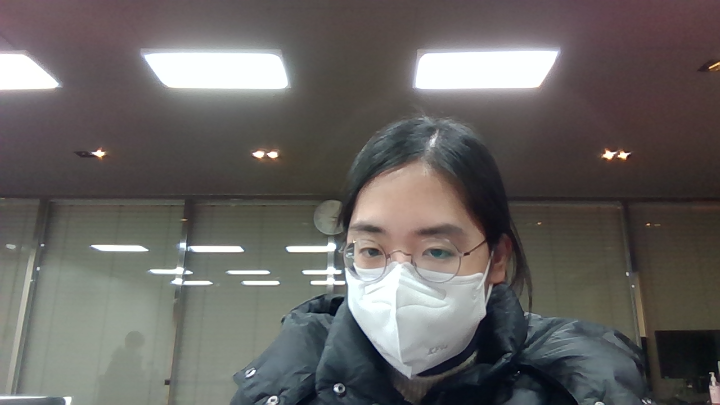
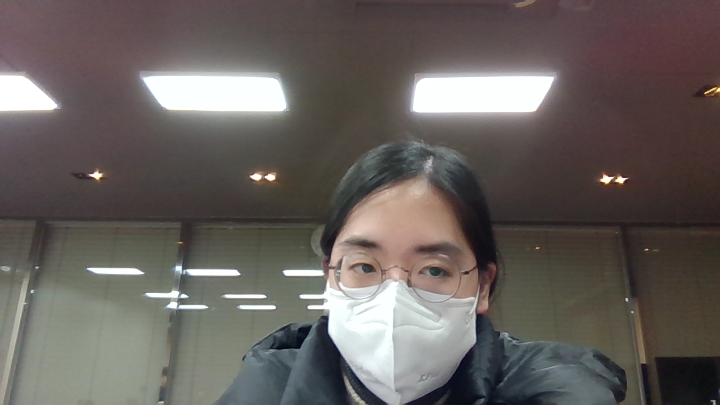
이진분류 video에 표시

diff --git a/team10/static/assets/js/capture.js b/team10/static/assets/js/capture.js
@@ -99,6 +99,7 @@
         track.stop();
         });
       clearInterval(sendImg);
+      jQuery("#posture-status").html('');
     }
 
     function startVideo() {
@@ -126,6 +127,13 @@
     // drawing that to the screen, we can change its size and/or apply
     // other changes before drawing it.
 
+    function isBadPosture(num){
+      if (num==0) {
+        return 'Good Posture';
+      } else {
+        return 'Bad Posture';
+      }
+    }
 
     function sendImage() {
       var context = canvas.getContext('2d');
@@ -157,8 +165,11 @@
           processData : false,
           contentType : false,
           data: data,
-          success: function (response) {
+          datatype: 'json',
+          success: function (data) {
+            console.log(data);
             console.log('success');
+            jQuery("#posture-status").html(isBadPosture(Number(data['class_name'])));
           },
           error: function(e){
             console.log('error');

diff --git a/team10/service/templates/service/service.html b/team10/service/templates/service/service.html
@@ -150,8 +150,16 @@
 									</script>
 								</header>
 								<br>
+								<style>
+									video{
+										transform: rotateY(180deg);
+										-webkit-transform:rotateY(180deg); /* Safari and Chrome */
+										-moz-transform:rotateY(180deg); /* Firefox */
+									}
+								</style>
 								<div class="video-container">
-									<video id='video' style="max-width: 100%; height: auto;"></video>
+									<video id='video' style="max-width: 100%; height: auto; position: relative;"></video>
+									<div id='posture-status' style="color: lime; position: relative; left:10px; top: -70px;"></div>
 									<br>
 									<div class="video-controls">
 										<button id="startbutton">스트리밍 시작</button>

diff --git a/team10/chatbot/views.py b/team10/chatbot/views.py
@@ -1,132 +1,132 @@
-# from django.shortcuts import render
-# from django.http import JsonResponse
-# from django.views.decorators.csrf import csrf_exempt
-# import json
-# from django.conf import settings
-# # from django.http import HttpResponse
-# # -----------
-# from langchain.text_splitter import RecursiveCharacterTextSplitter
-# from langchain.embeddings import OpenAIEmbeddings
-# from langchain.vectorstores import Chroma
-# from langchain.document_loaders import CSVLoader
-# import dotenv
-# dotenv.load_dotenv()
-# import time
+from django.shortcuts import render
+from django.http import JsonResponse
+from django.views.decorators.csrf import csrf_exempt
+import json
+from django.conf import settings
+# from django.http import HttpResponse
+# -----------
+from langchain.text_splitter import RecursiveCharacterTextSplitter
+from langchain.embeddings import OpenAIEmbeddings
+from langchain.vectorstores import Chroma
+from langchain.document_loaders import CSVLoader
+import dotenv
+dotenv.load_dotenv()
+import time
 
-# persist_directory = str(settings.BASE_DIR)
-# embedding = OpenAIEmbeddings()
+persist_directory = str(settings.BASE_DIR)
+embedding = OpenAIEmbeddings()
 
-# # load from disk
-# vectorstore = Chroma(
-#     persist_directory=persist_directory,
-#     embedding_function=embedding)
+# load from disk
+vectorstore = Chroma(
+    persist_directory=persist_directory,
+    embedding_function=embedding)
 
-# retriever = vectorstore.as_retriever()
+retriever = vectorstore.as_retriever()
 
-# from langchain.agents.agent_toolkits import create_retriever_tool
+from langchain.agents.agent_toolkits import create_retriever_tool
 
-# tool = create_retriever_tool(
-#     retriever,
-#     "BarunJaseDowoomi_customer_service_guide",
-#     "Searches and returns information regarding the customer service guide.",
-# )
-# tools = [tool]
+tool = create_retriever_tool(
+    retriever,
+    "BarunJaseDowoomi_customer_service_guide",
+    "Searches and returns information regarding the customer service guide.",
+)
+tools = [tool]
 
-# from langchain.chat_models import ChatOpenAI
-# llm = ChatOpenAI(temperature=0, model='gpt-3.5-turbo-1106')
+from langchain.chat_models import ChatOpenAI
+llm = ChatOpenAI(temperature=0, model='gpt-3.5-turbo-1106')
 
-# # This is needed for both the memory and the prompt
-# memory_key = "history"
+# This is needed for both the memory and the prompt
+memory_key = "history"
 
-# from langchain.agents.openai_functions_agent.agent_token_buffer_memory import (
-#     AgentTokenBufferMemory,
-# )
+from langchain.agents.openai_functions_agent.agent_token_buffer_memory import (
+    AgentTokenBufferMemory,
+)
 
-# memory = AgentTokenBufferMemory(memory_key=memory_key, llm=llm)
+memory = AgentTokenBufferMemory(memory_key=memory_key, llm=llm)
 
-# from langchain.agents.openai_functions_agent.base import OpenAIFunctionsAgent
-# from langchain.schema.messages import SystemMessage
-# from langchain.prompts import MessagesPlaceholder
+from langchain.agents.openai_functions_agent.base import OpenAIFunctionsAgent
+from langchain.schema.messages import SystemMessage
+from langchain.prompts import MessagesPlaceholder
 
-# system_message = SystemMessage(
-#     content=(
-#         "You are a customer service agent for '바른자세 도우미' Web service. "
-#         "Do your best to answer the questions within the scope of our service. "
-#         "Please do not provide answers that deviate from the subject matter. "
-#         "Feel free to use any tools available to look up "
-#         "relevant information, only if necessary"
-#         "If you don't know the answer, just say you don't know. Don't try to make up an answer."
-#         "Make sure to answer in Korean"
-#     )
-# )
+system_message = SystemMessage(
+    content=(
+        "You are a customer service agent for '바른자세 도우미' Web service. "
+        "Do your best to answer the questions within the scope of our service. "
+        "Please do not provide answers that deviate from the subject matter. "
+        "Feel free to use any tools available to look up "
+        "relevant information, only if necessary"
+        "If you don't know the answer, just say you don't know. Don't try to make up an answer."
+        "Make sure to answer in Korean"
+    )
+)
 
-# prompt = OpenAIFunctionsAgent.create_prompt(
-#     system_message=system_message,
-#     extra_prompt_messages=[MessagesPlaceholder(variable_name=memory_key)],
-# )
+prompt = OpenAIFunctionsAgent.create_prompt(
+    system_message=system_message,
+    extra_prompt_messages=[MessagesPlaceholder(variable_name=memory_key)],
+)
 
-# agent = OpenAIFunctionsAgent(llm=llm, tools=tools, prompt=prompt)
+agent = OpenAIFunctionsAgent(llm=llm, tools=tools, prompt=prompt)
 
-# from langchain.agents import AgentExecutor
+from langchain.agents import AgentExecutor
 
-# agent_executor = AgentExecutor(
-#     agent=agent,
-#     tools=tools,
-#     memory=memory,
-#     verbose=True,
-#     return_intermediate_steps=True,
-# )
+agent_executor = AgentExecutor(
+    agent=agent,
+    tools=tools,
+    memory=memory,
+    verbose=True,
+    return_intermediate_steps=True,
+)
 
-# # result = agent_executor({"input": "사용요금 조회는 어떻게 하죠"})
-# # result["output"]
+# result = agent_executor({"input": "사용요금 조회는 어떻게 하죠"})
+# result["output"]
 
-# # ----------- ㄴ---여기까지: langchain model 만들기 -------------
+# ----------- ㄴ---여기까지: langchain model 만들기 -------------
 
-# # GPT-3.5 모델과 히스토리를 기반으로 답변 생성하는 response 함수 정의------
-# # from langchain.schema import AIMessage, HumanMessage, SystemMessage
-# # def response(message, history, additional_input_info):
-# #     history_langchain_format = []
-# #     for human, ai in history:
-# #         history_langchain_format.append(HumanMessage(content=human))
-# #         history_langchain_format.append(AIMessage(content=ai))
-# #     # 새로운 사용자 메시지 추가
-# #     history_langchain_format.append(HumanMessage(content=message))
+# GPT-3.5 모델과 히스토리를 기반으로 답변 생성하는 response 함수 정의------
+# from langchain.schema import AIMessage, HumanMessage, SystemMessage
+# def response(message, history, additional_input_info):
+#     history_langchain_format = []
+#     for human, ai in history:
+#         history_langchain_format.append(HumanMessage(content=human))
+#         history_langchain_format.append(AIMessage(content=ai))
+#     # 새로운 사용자 메시지 추가
+#     history_langchain_format.append(HumanMessage(content=message))
     
-# #     # AgentExecutor를 사용하여 응답 생성
-# #     result = agent_executor({"input": message, "history": history_langchain_format})
+#     # AgentExecutor를 사용하여 응답 생성
+#     result = agent_executor({"input": message, "history": history_langchain_format})
     
-# #     # LangChain의 출력에서 AI의 마지막 메시지 가져오기
-# #     ai_response = result['output']
-# #     return ai_response
+#     # LangChain의 출력에서 AI의 마지막 메시지 가져오기
+#     ai_response = result['output']
+#     return ai_response
 
-# #-------AJAX 요청을 처리하는 뷰-----------------
-# from django.views.decorators.http import require_http_methods
-# from django.views.decorators.csrf import csrf_exempt
+#-------AJAX 요청을 처리하는 뷰-----------------
+from django.views.decorators.http import require_http_methods
+from django.views.decorators.csrf import csrf_exempt
 
 
-# @csrf_exempt
-# @require_http_methods(["POST", "GET"])
+@csrf_exempt
+@require_http_methods(["POST", "GET"])
 def chatbot_view(request):
-    return
-#     if request.method == "GET":
-#         request.session['chat_history'] = []  # 세션에 대화 히스토리 초기화
-#         # GET 요청 시, 챗봇 페이지 렌더링
-#         return render(request, 'chatbot/chatbot.html')
 
-#     if request.method == "POST":
-#         # POST 요청 처리 (AJAX 요청)
-#         data = json.loads(request.body)
-#         user_message = data['message']
+    if request.method == "GET":
+        request.session['chat_history'] = []  # 세션에 대화 히스토리 초기화
+        # GET 요청 시, 챗봇 페이지 렌더링
+        return render(request, 'chatbot/chatbot.html')
 
-#         # 현재 세션에서 대화 히스토리 가져오기
-#         history = request.session.get('chat_history', [])
+    if request.method == "POST":
+        # POST 요청 처리 (AJAX 요청)
+        data = json.loads(request.body)
+        user_message = data['message']
+
+        # 현재 세션에서 대화 히스토리 가져오기
+        history = request.session.get('chat_history', [])
         
-#         # LangChain 챗봇 응답 로직
-#         ai_response = agent_executor({"input": user_message, "history": history})['output']
-#         # 새 대화 내용을 히스토리에 추가
-#         history.append((user_message, ai_response))
-#         request.session['chat_history'] = history  # 세션에 히스토리 업데이트
+        # LangChain 챗봇 응답 로직
+        ai_response = agent_executor({"input": user_message, "history": history})['output']
+        # 새 대화 내용을 히스토리에 추가
+        history.append((user_message, ai_response))
+        request.session['chat_history'] = history  # 세션에 히스토리 업데이트
         
-#         # 응답 반환
-#         return JsonResponse({'response': ai_response})
+        # 응답 반환
+        return JsonResponse({'response': ai_response})
 

diff --git a/team10/service/views.py b/team10/service/views.py
@@ -38,6 +38,7 @@ def upload(request):
 
 from .models import PostureDetection
 from django.http import FileResponse
+from django.http import JsonResponse
 import cv2
 import mediapipe as mp
 import joblib
@@ -142,6 +143,8 @@ def send_image(request):
                     now_hms = time.strftime('%H:%M:%S')
                     PostureDetection.objects.create(timeymd=now_ymd, timehms=now_hms, posturetype=class_name)
 
-                processed_image_path = "./media/processed_image.png"
-                cv2.imwrite(processed_image_path, frame)  # 이미지 저장
-        return FileResponse(open(processed_image_path, 'rb'), content_type='image/png')
+                # processed_image_path = "./media/processed_image.png"
+                # cv2.imwrite(processed_image_path, frame)  # 이미지 저장
+        # return FileResponse(open(processed_image_path, 'rb'), content_type='image/png')
+                context = {'class_name':str(class_name)}
+        return JsonResponse(context)
